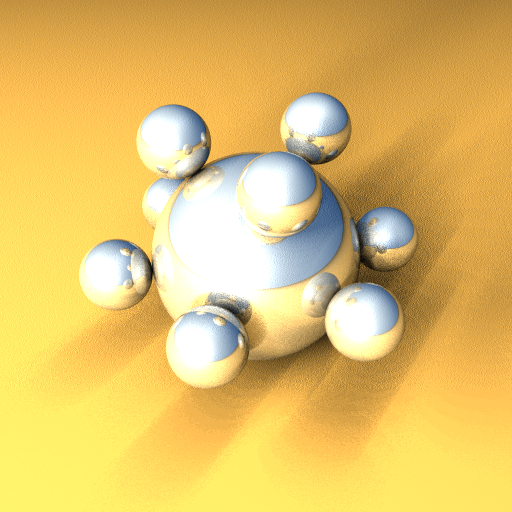
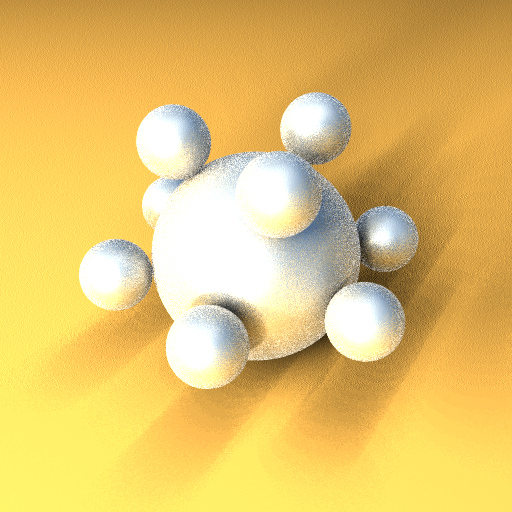
Fix minor error in loop

Changed region(s): [[0.1562, 0.1562, 1.0, 0.7812], [0.9375, 0.3125, 1.0, 0.3438], [0.9688, 0.5, 1.0, 0.5312]]

diff --git a/lab01/main.cpp b/lab01/main.cpp
@@ -474,8 +474,6 @@ Vector rand_in_unit_sphere(int p, int q, int sqrt_num_samples) {
 	return Vector(x, y, z);
 }
 
-Color rayTracing(Ray ray, int depth, float ior_i);
-
 Color getDiffuseNSpecular(Ray shadow_ray, Material* material, Vector hit_ray_dir, Vector normal_vec, Vector light_dir, Color light_color) {
 	Color colour = Color();
 	bool in_shadow = false;
@@ -508,25 +506,33 @@ Color getDiffuseNSpecular(Ray shadow_ray, Material* material, Vector hit_ray_dir
 	colour += light_color * (diffuse_colour + specular_colour);
 }
 
+Color rayTracing(Ray ray, int depth, float ior_i);
+
 Color getReflection(Vector normal_vec, float cos_theta_i, Vector rev_ray_dir, Vector hit_point,
 	Material* material, int depth, float ior_i, float x) {
 	// Reflection
 
 	Vector refl_ray_dir = (normal_vec * cos_theta_i * 2 - rev_ray_dir);
 	float roughness = material->GetRoughness();
-	int spp = 0; // Replace with scene->GetSamplesPerPixel();
+	int spp = scene->GetSamplesPerPixel();
 	Color colour = Color();
-	if (roughness > 0 && spp > 0) {
 
-		int sqrt_num_samples = sqrt(spp);
+	if (roughness > 0) { // Fuzzy reflections
+	
+		// Anti-aliasing already shoots multiple rays,
+		// so we only need to shoot more than one here
+		// if anti-aliasing is deactivated
+		int sqrt_num_samples = (spp == 0) ? 4 : 1;
 		Vector mod_refl_ray_dir;
 
 		for (int p = 0; p < sqrt_num_samples; p++) {
 			for (int q = 0; q < sqrt_num_samples; q++) {
 				mod_refl_ray_dir = (refl_ray_dir + rand_in_unit_sphere(p, q, sqrt_num_samples) * roughness).normalize();
 				
-				if (mod_refl_ray_dir * normal_vec < 0) 
+				if (mod_refl_ray_dir * normal_vec < 0) {
 					colour += material->GetSpecColor();
+					continue;
+				}
 
 				Ray refl_ray(hit_point, mod_refl_ray_dir);
 
@@ -535,7 +541,7 @@ Color getReflection(Vector normal_vec, float cos_theta_i, Vector rev_ray_dir, Ve
 			}
 		}
 
-		return colour * (1.0 / spp);
+		return colour * (1.0 / pow(sqrt_num_samples, 2)); // Average the added colours
 	}
 
 	Ray refl_ray(hit_point, refl_ray_dir);
@@ -565,7 +571,8 @@ Color rayTracing(Ray ray, int depth, float ior_i) // index of refraction of medi
 	Vector hit_point = ray.origin + ray.direction * shortest_hit_dist;
 	Vector rev_ray_dir = ray.direction * (-1);
 
-	Vector normal_vec = shortest_hit_object->getShadingNormal(rev_ray_dir, hit_point); // normal direction might be wrong - sphere eg. what if ray comes from inside
+	// Negate normal vector's direction if the ray comes from inside the object
+	Vector normal_vec = shortest_hit_object->getShadingNormal(rev_ray_dir, hit_point);
 
 	// To account for acne spots
 	Vector refl_hit_point = hit_point + normal_vec * EPSILON;
@@ -658,7 +665,7 @@ Color rayTracing(Ray ray, int depth, float ior_i) // index of refraction of medi
 	float Kr = R0 + (1 - R0) * pow(1 - cos_theta_Kr, 5);
 
 	// Reflection --> only if object isn't diffuse
-	//TODO: If necessário?
+	// TODO: Should we add jittering?
 	if (material->GetReflection() > 0) {
 		Vector refl_ray_dir = ray.direction - normal_vec * (ray.direction * normal_vec) * 2;
 		Ray reflected_ray(refl_hit_point, refl_ray_dir);
